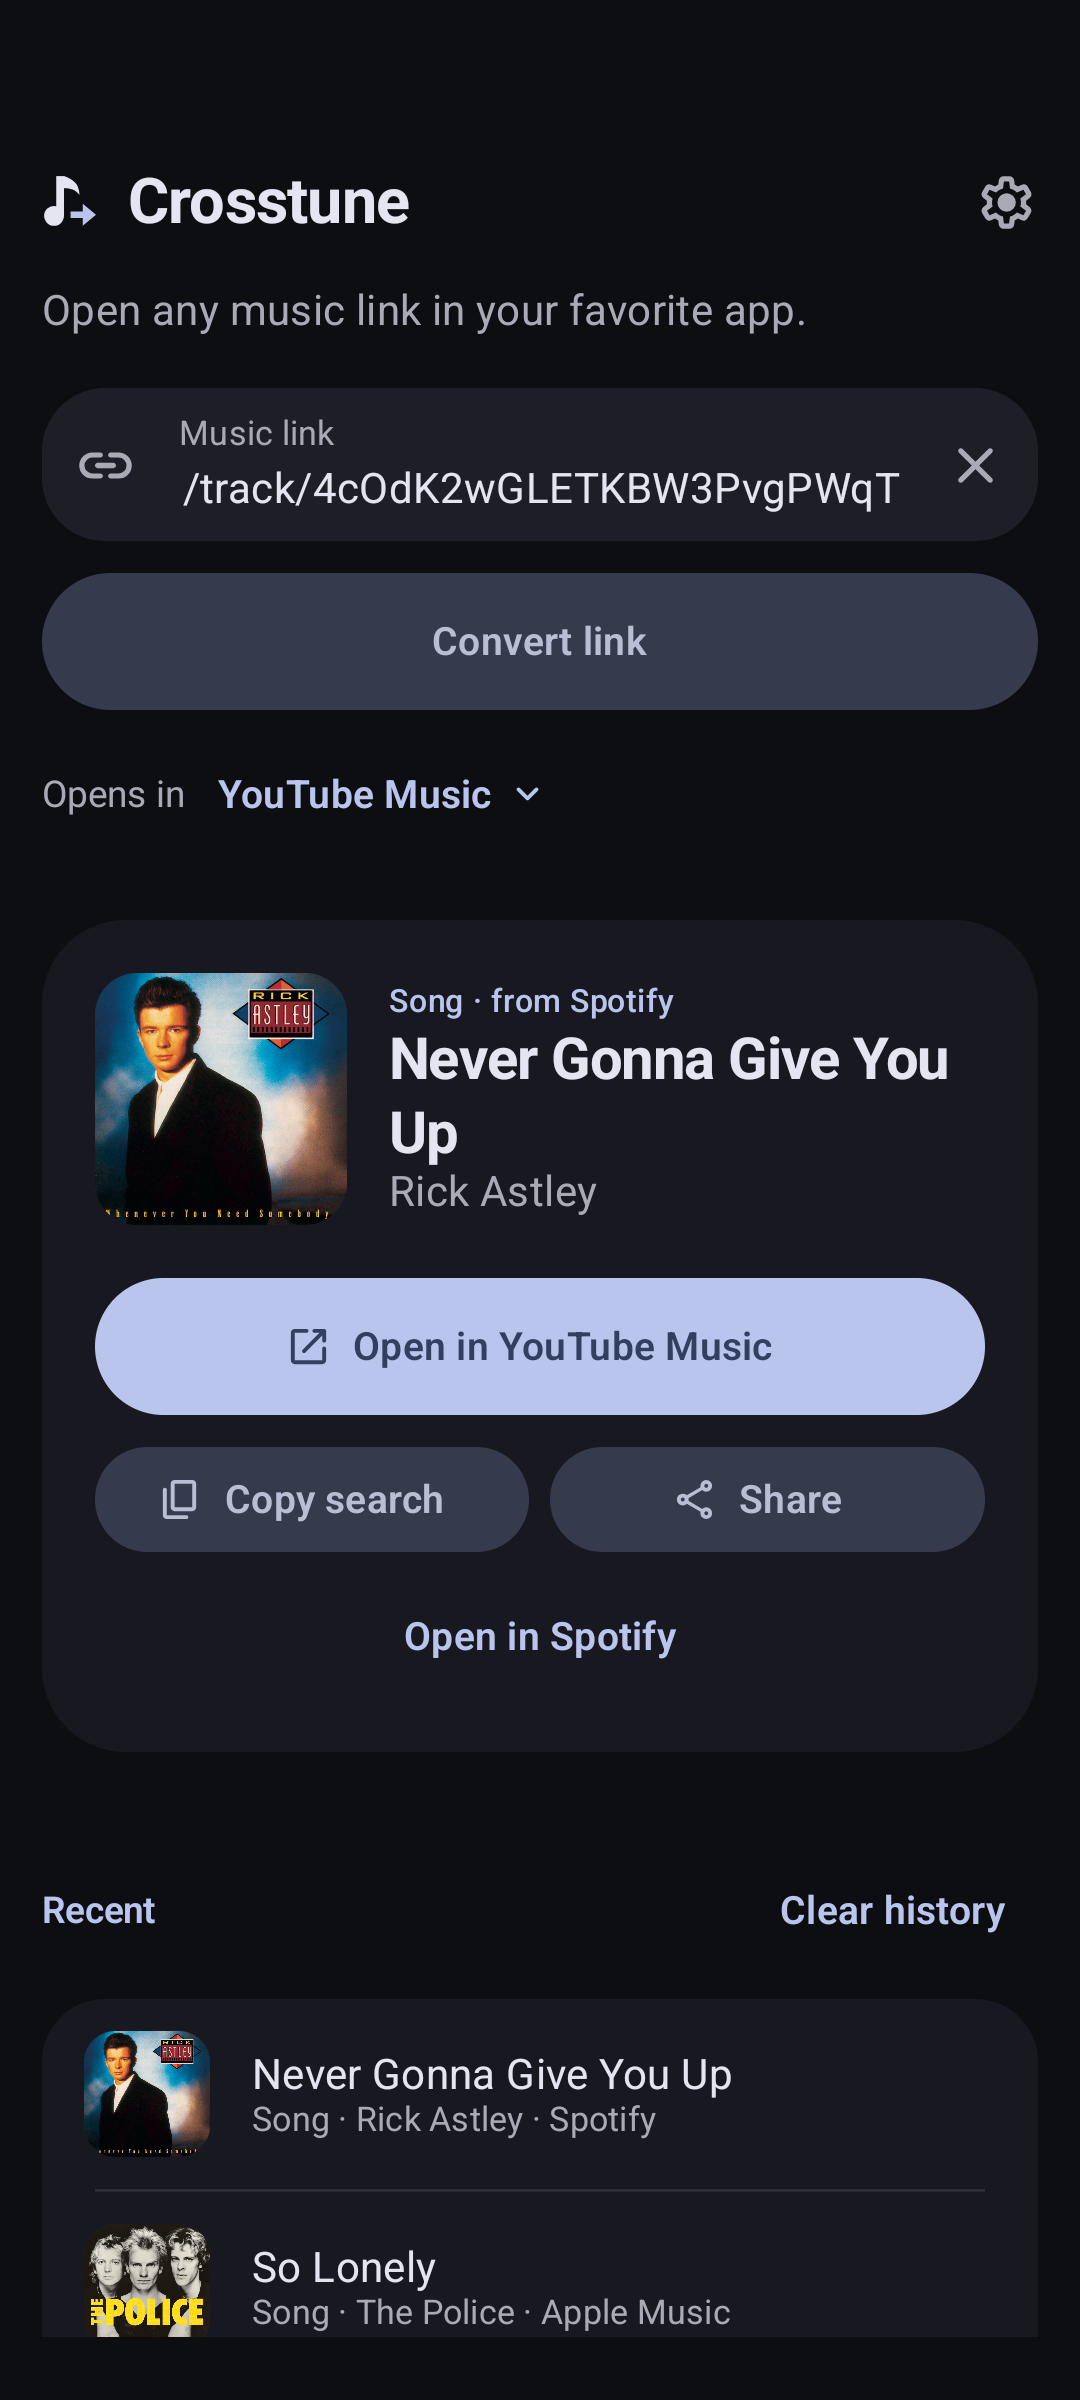
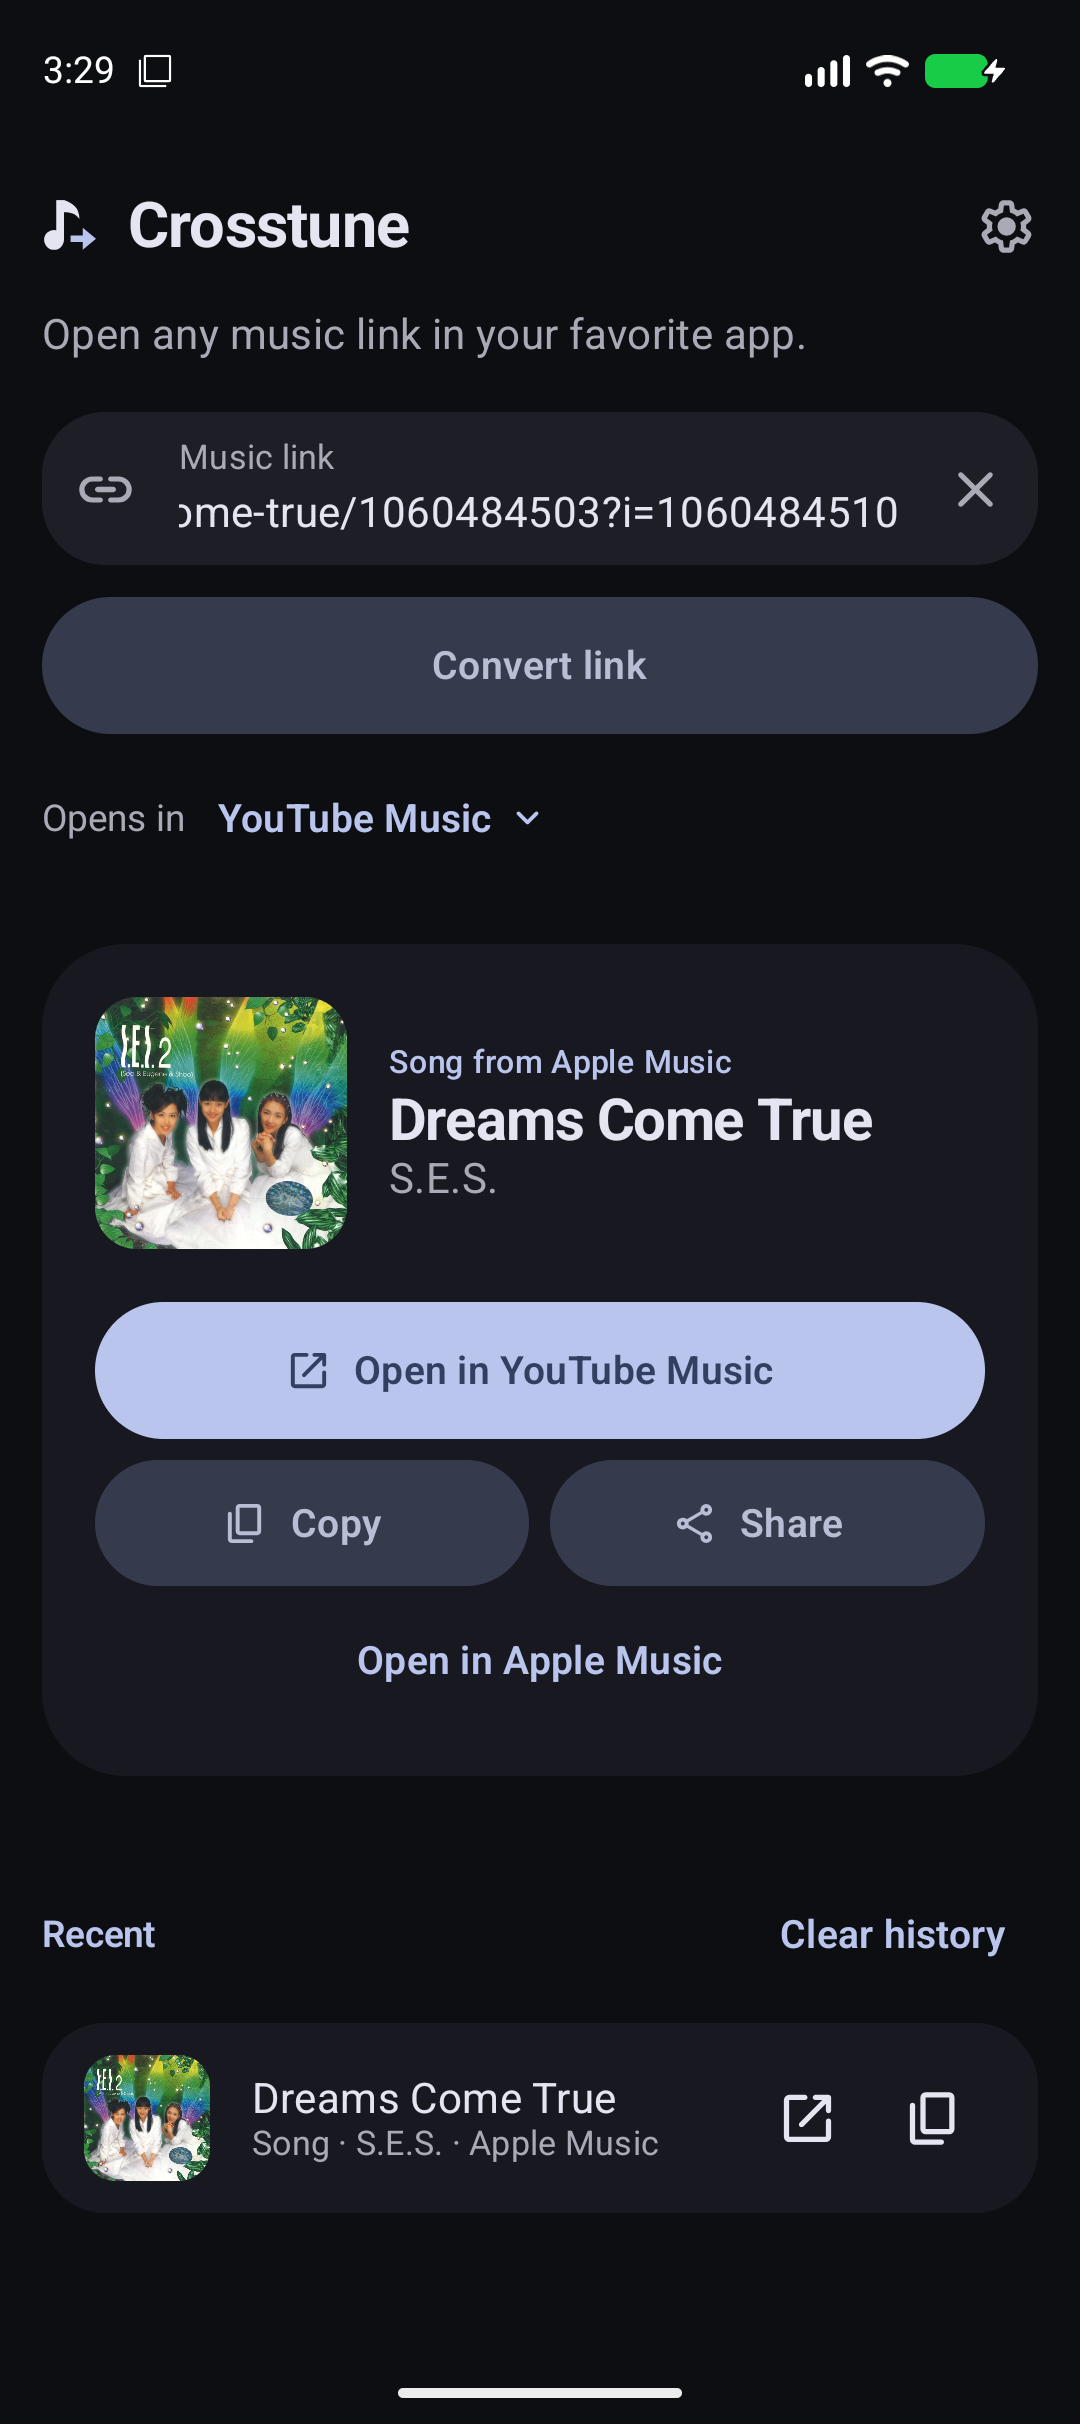
Replace the store screenshots and drop the extra screenshots folder (#55)
Retake the listing shots with only Dreams Come True by S.E.S., keep them in fastlane, and point the README there.

diff --git a/README.md b/README.md
@@ -5,10 +5,9 @@
 Someone sends you a link from one music service, but you listen on another. With Crosstune, you tap the link and the same song opens in your app. Spotify to YouTube Music, Apple Music to Deezer, TIDAL to Spotify: mix them however you like. Albums, artists and playlists work too.
 
 <p align="center">
-  <img src="screenshots/home.png" alt="A Spotify link resolved to its song, ready to open in YouTube Music" width="200">
-  <img src="screenshots/recent.png" alt="The result with recent links and their covers" width="200">
-  <img src="screenshots/settings.png" alt="Settings: default app and which services' links Crosstune opens" width="200">
-  <img src="screenshots/setup.png" alt="First-run setup: allowing the links in Android" width="200">
+  <img src="fastlane/metadata/android/en-US/images/phoneScreenshots/1.png" alt="Dreams Come True by S.E.S. resolved from Apple Music, ready to open in YouTube Music" width="200">
+  <img src="fastlane/metadata/android/en-US/images/phoneScreenshots/2.png" alt="Settings: default app and which services' links Crosstune opens" width="200">
+  <img src="fastlane/metadata/android/en-US/images/phoneScreenshots/3.png" alt="First-run setup: allowing the links in Android" width="200">
 </p>
 
 ## ⬇ Install
